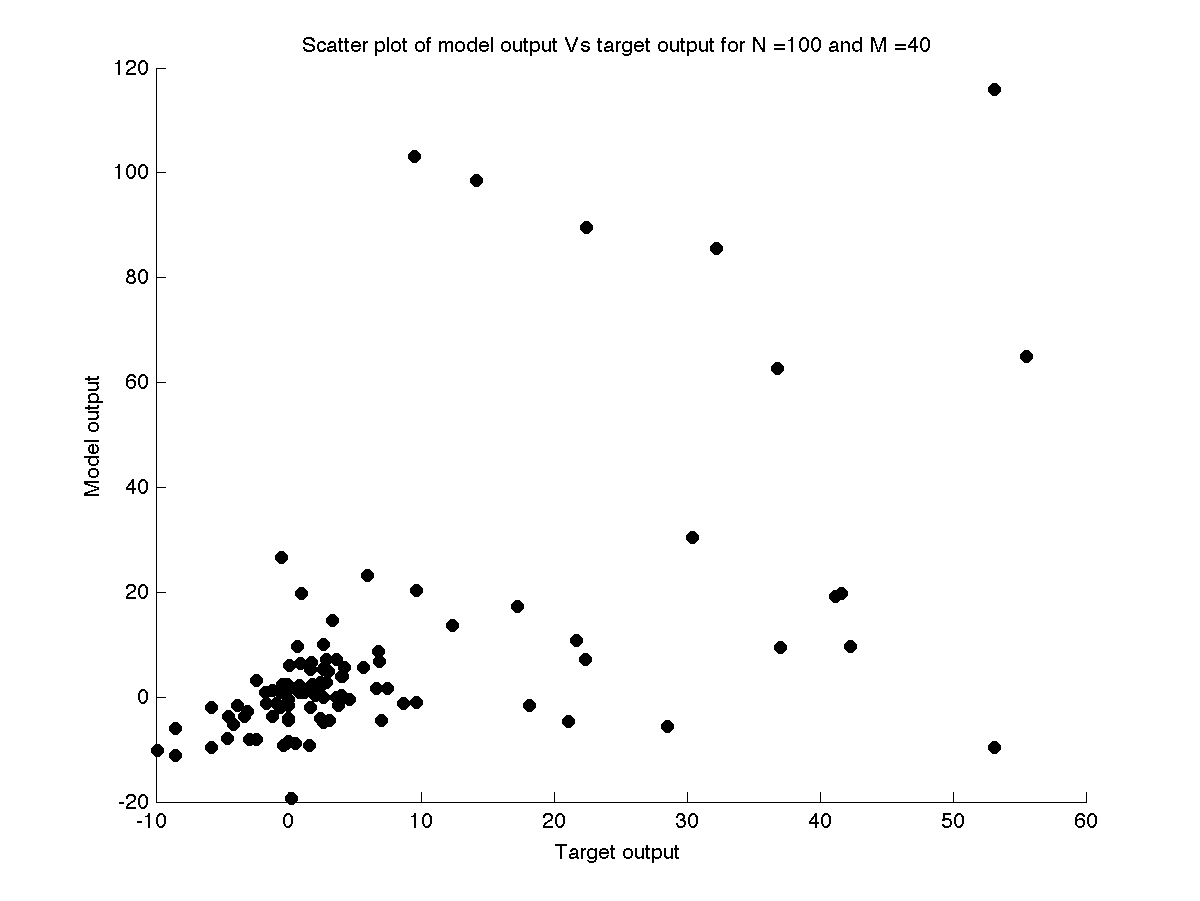
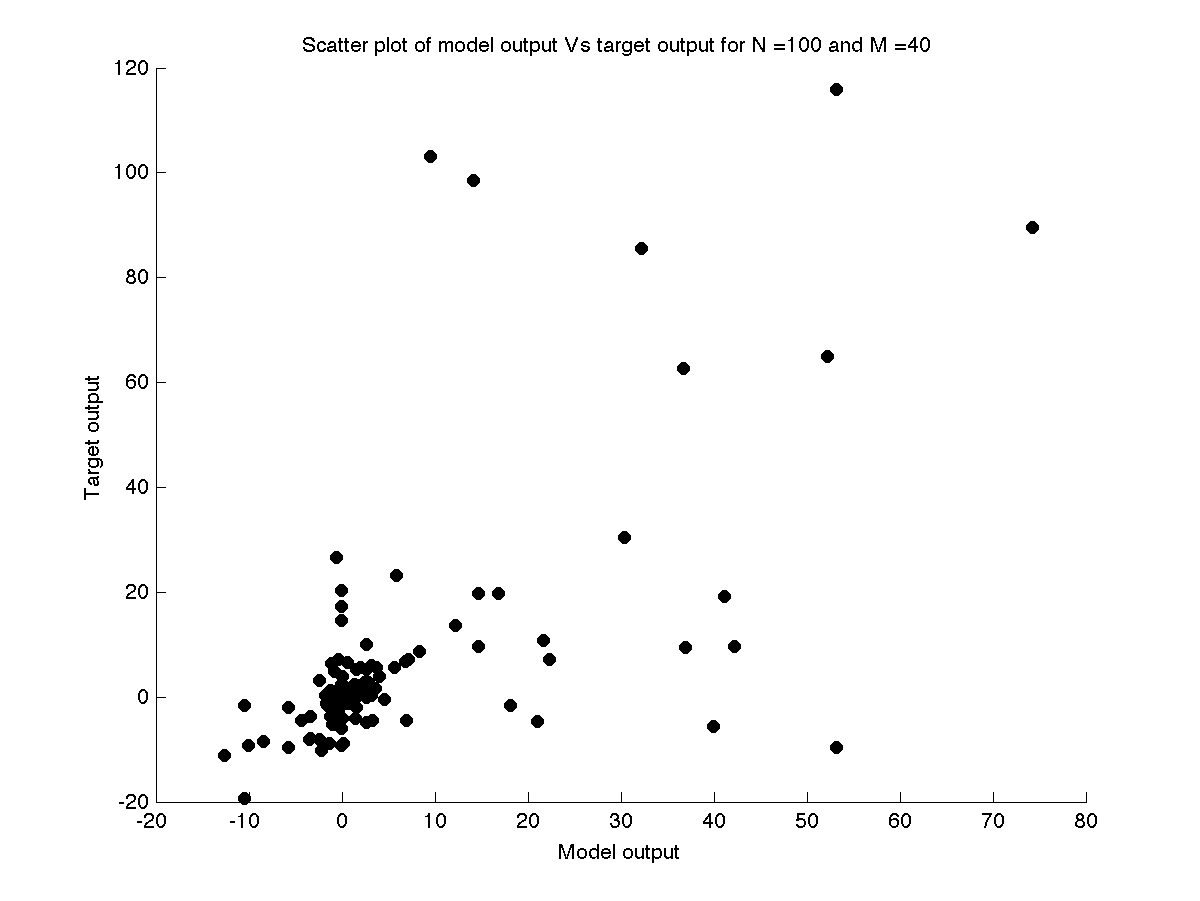
Report for D2 almost

diff --git a/Assignment_1/Report/main.tex b/Assignment_1/Report/main.tex
@@ -351,8 +351,23 @@ The plots below show the scatter plots obtained on varying $\lambda$, for $N = 2
 \section{Dataset 2}
 
 \subsection{Generation}
-Here, we are given the dataset which is bivariate (2 input variables and 1 output variable). 3 different training sets are present, of sizes 20, 100 and 1000. The test and validation sets are of size 200 and 300 respectively.
+Here, we are given the dataset which is bivariate (2 input variables and 1 output variable). 3 training sets were provided originally, of sizes 20, 100 and 1000. We have additionally sampled training datasets of sizes 200, 500 and 700 for some of the experiments. The test and validation sets are of size 200 and 300 respectively.
+
 \subsection{Model creation}
+
+As the goal is to fit a hyper surface to the given data using the linear model of regression, we need to decide on the number of Gaussian basis functions $M$ which decides the model complexity as well as the centroid and width parameter associated with each Gaussian basis function. 
+
+In order to obtain the centroids of the basis functions, we cluster the training data using $k$-means clustering where $k$ equals the number of basis functions and set the centroids associated with the basis functions to the centroids of the clusters obtained. We set the width parameter of each basis function to be the average distance from the two nearest neighboring cluster centers to the cluster centre of this basis function (read from literature).
+
+Through the plots, we show the variation of model outputs and RMS errors on varying different  parameters and our analysis of the results to choose the best model.
+
+Here is a plot of the distribution of the input training data (1000 points) provided (x \& y axes correspond to the 2 input variables). We observe that there is a huge concentration of data points in the range [-10,10] in both input variables.
+\begin{figure}[H]
+\centering
+\includegraphics[width=100mm]{data_scatter}
+\caption{Scatter plot of training data input variables}
+\label{fig:plot}
+\end{figure}
 
 TODO - Do we need to put formulas ?
 
@@ -393,12 +408,15 @@ The Surface plots depict the variation of the surface fit obtained on varying th
 
 \textbf{Observations : \newline}
 \begin{itemize}
-\item TODO
+\item We chose the training dataset with 100 points to clearly show the issue of overfitting (for large model complexities) in the absence of regularization. It is to be noted that the maximum model complexity possible here is the dataset size since the number of clusters cannot exceed the number of data points.
+\item We notice that for M=10, the surface generated has a large peak in the region centered about the origin as it has high concentration of data point leading to concentration of most clusters there. 
+\item As we increase M to 40, we observe the emergence of multiple smaller peaks on the surface owing to increase in number of generating Gaussians.
+\item Finally, as we increase M to 80 and 100, we observe large number of dominant peaks in the surface which fit the training data more closely (leading to the issue of overfitting).
 \end{itemize}
 
 
 \begin{flushleft}
-The next set of surface plots show the variation surface fit on using training datasets of different sizes. Each of these plots are shown for a model complexity of $M = 100$. The training set size is varied as - 100,200,400,700 and 1000. The plot $N =100$ is excluded below, as it has been shown earlier.
+The next set of surface plots show the variation in surface fit on using training datasets of different sizes. Each of these plots are shown for a model complexity of $M = 100$. The training set size is varied as - 100,200,400,700 and 1000. The plot $N =100$ is excluded below, as it has been shown earlier.
 
 \end{flushleft}
 \begin{figure}[H]
@@ -432,7 +450,9 @@ The next set of surface plots show the variation surface fit on using training d
 \textbf{Observations :}
 
 \begin{itemize}
-\item TODO
+\item We have studied that for a given model complexity, the over-fitting problem becomes less severe as the size of the data set increases. This is because the larger the data set, the more complex the model that we can afford to fit to the data.
+\item For M=100, we observe that for smaller data set sizes of N=100, N=200, we observe that the dominant peaks are distributed towards the extremes of the input region and are precisely tuned to fit to the data points in the training data leading to overfitting.
+\item As we increase N to 700 and 1000, we observe that the distribution of the peaks becomes more stable and uniform, and it is expected that the surface fitted would generalize well to new data since the peaks are not fit exactly to few training data points.
 \end{itemize}
 
 \begin{flushleft}
@@ -471,7 +491,8 @@ Next, we look at the effect of the regularization parameter $\lambda$ on the sur
 \textbf{Observations :}
 
 \begin{itemize}
-\item TODO
+\item The very small value of $\lambda=10^{-6}$ almost corresponds to the case with negligible regularization. This corresponds to the case of overfitting as the peaks of the surface are tuned precisely to the training data points and don't generalize well.
+\item As the value of $\lambda$ increases upto 10, we penalize the coefficients of the surface generated preventing large weights (in the case of overfitting). Thus, we observe the surface becomes smoother with lesser dominant peaks and these peaks generalize well as they are fit exactly to individual data points.
 \end{itemize}
 
 
@@ -489,8 +510,8 @@ The errors have been shown on all 3 datasets for each case (test, train and vali
 \caption{Varying M, Optimal $\lambda$, 100 train size}
 \end{subfigure}
 \begin{subfigure}{.5\textwidth}
-%\includegraphics[width=\linewidth]{D2/RMS_complexity_1000}
-\caption{Varying M, Optimal $\lambda$, ? train size}
+\includegraphics[width=\linewidth]{D2/RMS_complexity_700}
+\caption{Varying M, Optimal $\lambda$, 700 train size}
 \end{subfigure}
 
 
@@ -500,8 +521,8 @@ The errors have been shown on all 3 datasets for each case (test, train and vali
 \caption{Optimal M, Varying $\lambda$, 100 train size}
 \end{subfigure}
 \begin{subfigure}{.5\textwidth}
-%\includegraphics[width=\linewidth]{D2/RMS_lambda_1000}
-\caption{Optimal M, Varying $\lambda$, ? train size}
+\includegraphics[width=\linewidth]{D2/RMS_lambda_700}
+\caption{Optimal M, Varying $\lambda$, 700 train size}
 \end{subfigure}
 
 
@@ -548,7 +569,10 @@ TODO - add some text here varying M etc.
 
 \textbf{Observations : \newline}
 \begin{itemize}
-\item TODO
+\item For a fixed training data set size of 100, we vary the model complexity from 10 to 100 to observe the scatter plot of model output vs target output.
+\item We observe that for the maximum possible M value of 100, we obtain an almost perfect scatter plot (resembles $y=x$ plot) as here there are 100 clusters which can generate each training data point separately and hence fit the training data perfectly.
+\item As we decrease the value of M, the scatter plot gets distorted from $y=x$ line.
+\item When we reach M=10, due to the presence of very few Gaussian basis functions, the surface fitted is incapable of matching the target output in most cases.
 \end{itemize}
 
 
@@ -610,7 +634,7 @@ TODO - Add some text here - varying lambda etc.
 \caption{$\lambda$ = 1}
 \end{subfigure}
 \begin{subfigure}{.5\textwidth}
-%\includegraphics[width=\linewidth]{D2/Scatter/Varyinglambda_N100M100lambda10}
+\includegraphics[width=\linewidth]{D2/Scatter/Varyinglambda_N100M100lambda10}
 \caption{$\lambda$ = $10$}
 \end{subfigure}
 

diff --git a/Assignment_1/Code/Q2.m b/Assignment_1/Code/Q2.m
@@ -191,8 +191,7 @@ end
 % RMSE vs complexity 
 
 %{
-
-M_values = [50,100,200,400,600,800,1000];  % no of basis functions
+M_values = [10,50,100,200,400,600,700];  % no of basis functions
 lambda_values = [0,10^(-6),10^(-5),10^(-4),10^(-3),10^(-2),10^(-1),1,10];
 
 train_rms = [];
@@ -200,7 +199,8 @@ test_rms = [];
 val_rms = [];
 
 for i=1:length(M_values)
-    [rtrain,rtest,rval] = rmserr_Q2_M(trainSet_1000,testSet,valSet,M_values(i),lambda_values);
+    i
+    [rtrain,rtest,rval] = rmserr_Q2_M(trainSet_700,testSet,valSet,M_values(i),lambda_values);
     train_rms = [train_rms,rtrain];
     test_rms = [test_rms,rtest];
     val_rms = [val_rms,rval];        
@@ -216,7 +216,7 @@ title('RMSE vs complexity')
 ylabel('RMS error');
 xlabel('Model Complexity');
 legend('show');
-saveas(gcf,'Plots_2/RMS/RMS_complexity_1000.png');
+saveas(gcf,'Plots_2/RMS/RMS_complexity_700.png');
 
 %}
 
@@ -224,14 +224,14 @@ saveas(gcf,'Plots_2/RMS/RMS_complexity_1000.png');
 
 %{
 
-M_values = [10,20,30,40,50,60,70,80,90,100];  % no of basis functions
+M_values = [10,50,100,200,400,600,700];  % no of basis functions
 lambda_values = [0,10^(-6),10^(-5),10^(-4),10^(-3),10^(-2),10^(-1),1,10];
 
 train_rms = [];
 test_rms = [];
 val_rms = [];
 for i=1:length(lambda_values)
-    [rtrain,rtest,rval] = rmserr_Q2_lambda(trainSet_100,testSet,valSet,M_values,lambda_values(i));
+    [rtrain,rtest,rval] = rmserr_Q2_lambda(trainSet_700,testSet,valSet,M_values,lambda_values(i));
     train_rms = [train_rms,rtrain];
     test_rms = [test_rms,rtest];
     val_rms = [val_rms,rval];        
@@ -249,7 +249,7 @@ title('RMSE vs log(lambda)')
 ylabel('RMS error');
 xlabel('log(lambda)');
 legend('show');
-saveas(gcf,'Plots_2/RMS/RMS_lambda_100.png');
+saveas(gcf,'Plots_2/RMS/RMS_lambda_700.png');
 
 %}
 
@@ -273,8 +273,8 @@ for i = 1:length(n_range)
         target_output = trainSet(:,3);
         scatter(model_output,target_output,'ko','filled'); 
         
-        xlabel('Target output');
-        ylabel('Model output');
+        ylabel('Target output');
+        xlabel('Model output');
         title(b);
         
         saveas(fig1,strcat('Plots_2/Scatter/VaryingN/VaryingN_N',int2str(N),'M',int2str(M),'.png'));
@@ -284,7 +284,6 @@ end
 % Scatter plots for varying M
 
 %{
-
 n_range = [100];
 m_range = [10,40,80,100];
 
@@ -303,13 +302,12 @@ for i = 1:length(n_range)
         target_output = trainSet(:,3);
         scatter(model_output,target_output,'ko','filled');        
         
-        xlabel('Target output');
-        ylabel('Model output');
+        ylabel('Target output');
+        xlabel('Model output');
         title(b);
         saveas(fig1,strcat('Plots_2/Scatter/VaryingM/VaryingM_N',int2str(N),'M',int2str(M),'.png'));
     end
 end
-
 %}
 
 % Scatter plots for varying lambda
@@ -317,7 +315,7 @@ end
 %{
 N = 100;
 M = 100;
-lambda_range = [0,10^(-6),10^(-5),10^(-4),10^(-3),10^(-2),10^(-1),1];
+lambda_range = [0,10^(-6),10^(-5),10^(-4),10^(-3),10^(-2),10^(-1),1,10];
 
 for i = 1:length(lambda_range)
     
@@ -332,8 +330,8 @@ for i = 1:length(lambda_range)
     target_output = trainSet(:,3);
     scatter(model_output,target_output,'ko','filled');        
         
-    xlabel('Target output');
-    ylabel('Model output');
+    ylabel('Target output');
+    xlabel('Model output');
     title(b);
     saveas(fig1,strcat('Plots_2/Scatter/Varying_lambda/Varyinglambda_N',int2str(N),'M',int2str(M),'lambda',num2str(lambda),'.png'));    
   
